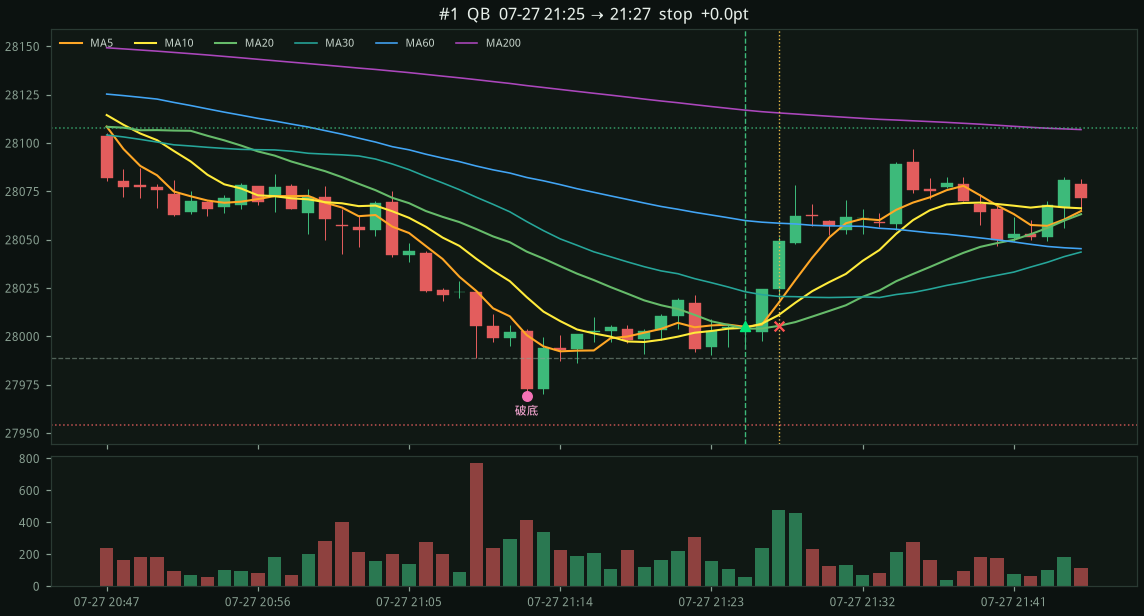
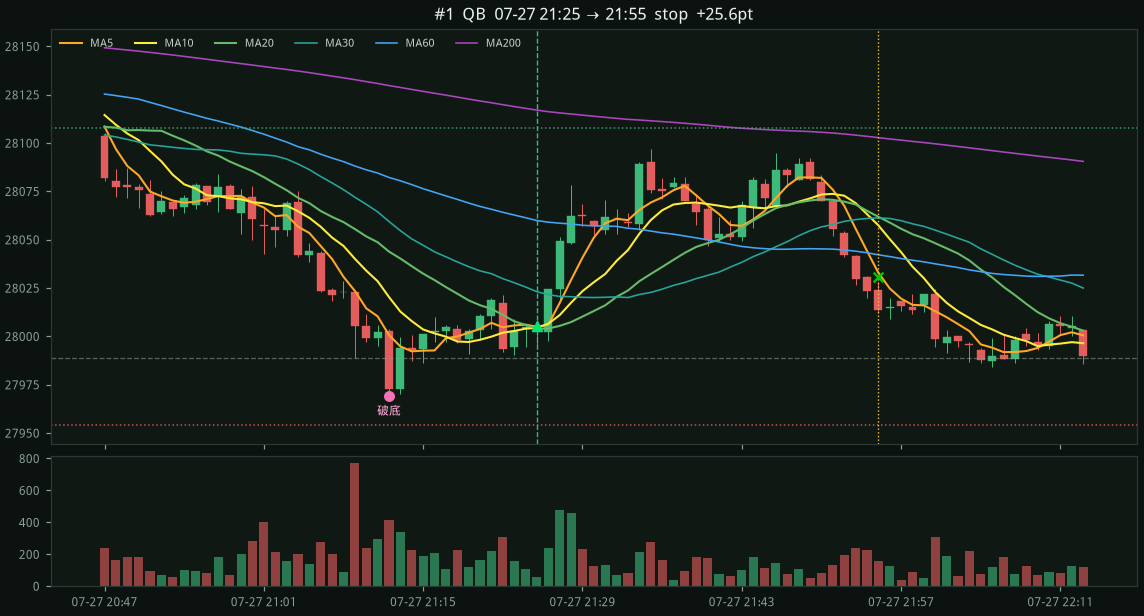
Refresh the MA20 gallery: 07-27 21:25 now trails +25.6.
After ignoring the entry 5m close, that first trade holds to 21:55
instead of scratching. 9 trades, 77.8%, +719.

diff --git a/docs/nq-ma-reclaim-ma20/view.html b/docs/nq-ma-reclaim-ma20/view.html
@@ -33,22 +33,22 @@ h1{font-size:18px;margin:0 0 6px}
 <div class="page">
 <section class="summary">
 <h1>NQ=F 破底翻 MA Reclaim</h1>
-<p class="muted">30d · 只要收復 MA20 · 2026-07-24 13:28 → 2026-08-21 16:59 ET · bars=27566</p>
-<p class="muted">收復只要站上 MA20。MA20 斜率改看近 3 根、門檻 −8（07-27 21:25 為 −7.1）。hug 也看近 3 根，只擋走平／微升（仍擋 08-11 12:39）。</p>
+<p class="muted">30d · 只要收復 MA20 · 2026-07-24 13:38 → 2026-08-21 16:59 ET · bars=27556</p>
+<p class="muted">收復只要站上 MA20。MA20 斜率改看近 3 根、門檻 −8（07-27 21:25 為 −7.1）。hug 也看近 3 根，只擋走平／微升（仍擋 08-11 12:39）。5 分停損只用進場之後才收完的 K；進場當根 5 分收盤不能立刻打保本。</p>
 <div class="cards">
 <div class="card">筆數<b>9</b></div>
-<div class="card">勝率<b>66.7%</b></div>
-<div class="card">總點數<b class="pnl-win">+693.3</b></div>
-<div class="card">勝/負<b>6/3</b></div>
+<div class="card">勝率<b>77.8%</b></div>
+<div class="card">總點數<b class="pnl-win">+718.9</b></div>
+<div class="card">勝/負<b>7/2</b></div>
 </div>
-<p class="muted">QA 4筆 +476.8 · QB 5筆 +216.5</p>
+<p class="muted">QA 4筆 +476.8 · QB 5筆 +242.1</p>
 <p class='muted'>漏斗：破底 1166 → 深度夠 287 → 收復+排列 255 → 進場 9（hug 30 · MA60 29 · 9點檔 53 · 量能 3 · 風險 89 · 寬停損 0）</p>
-<div class="equity"><svg viewBox="0 0 720 180" width="100%" style="background:#0f172a;border-radius:8px"><line x1="0" y1="162.6" x2="720" y2="162.6" stroke="#334155" stroke-dasharray="4 4"/><polyline fill="none" stroke="#16a34a" stroke-width="2" points="0.0,162.6 80.0,162.6 160.0,100.6 240.0,77.3 320.0,68.9 400.0,76.9 480.0,59.8 560.0,46.8 640.0,48.0 720.0,17.4"/></svg></div>
+<div class="equity"><svg viewBox="0 0 720 180" width="100%" style="background:#0f172a;border-radius:8px"><line x1="0" y1="162.6" x2="720" y2="162.6" stroke="#334155" stroke-dasharray="4 4"/><polyline fill="none" stroke="#16a34a" stroke-width="2" points="0.0,162.6 80.0,157.4 160.0,97.6 240.0,75.1 320.0,67.0 400.0,74.8 480.0,58.3 560.0,45.8 640.0,46.9 720.0,17.4"/></svg></div>
 </section>
-<article class='trade-card'><header class='card-header'><div class='card-title'><span class='trade-no'>#1 · QB</span><span class='trade-time'>2026-07-27 21:25 → 07-27 21:27</span></div><div class='card-pnl pnl-flat'>+0.0 pts</div></header><div class='tags'><span class='tag tag-sl'>stop</span><span class='tag tag-info'>1m</span><span class='tag tag-info'>QB</span></div><pre class='trade-detail'>entry 28005.25
+<article class='trade-card'><header class='card-header'><div class='card-title'><span class='trade-no'>#1 · QB</span><span class='trade-time'>2026-07-27 21:25 → 07-27 21:55</span></div><div class='card-pnl pnl-win'>+25.6 pts</div></header><div class='tags'><span class='tag tag-sl'>stop</span><span class='tag tag-info'>1m</span><span class='tag tag-info'>QB</span></div><pre class='trade-detail'>entry 28005.25
 stop  27954.00  (−51.2 pts)
 target 28107.75  (2.0R)
-exit  28005.25  stop
+exit  28030.88  stop
 破底 27969.00 / 2h低 27988.75
 MA5 28005.0 / MA20 28004.0 / MA60 28059.9 / MA200 28117.0</pre><div class='mini-chart'><img src='https://raw.githubusercontent.com/yubogoodman-droid/NQ/cursor/nq-30d-ablation-2484/docs/nq-ma-reclaim-ma20/img/t01_0727_2125_qb.png' alt='#1 QB' style='width:100%;display:block;border-radius:10px'/></div></article><article class='trade-card'><header class='card-header'><div class='card-title'><span class='trade-no'>#2 · QA</span><span class='trade-time'>2026-07-28 19:15 → 07-28 20:01</span></div><div class='card-pnl pnl-win'>+296.2 pts</div></header><div class='tags'><span class='tag tag-tp'>target</span><span class='tag tag-info'>1m</span><span class='tag tag-info'>QA</span></div><pre class='trade-detail'>entry 27828.00
 stop  27729.25  (−98.8 pts)

diff --git a/docs/nq-ma-reclaim-ma20/index.html b/docs/nq-ma-reclaim-ma20/index.html
@@ -33,22 +33,22 @@ h1{font-size:18px;margin:0 0 6px}
 <div class="page">
 <section class="summary">
 <h1>NQ=F 破底翻 MA Reclaim</h1>
-<p class="muted">30d · 只要收復 MA20 · 2026-07-24 13:28 → 2026-08-21 16:59 ET · bars=27566</p>
-<p class="muted">收復只要站上 MA20。MA20 斜率改看近 3 根、門檻 −8（07-27 21:25 為 −7.1）。hug 也看近 3 根，只擋走平／微升（仍擋 08-11 12:39）。</p>
+<p class="muted">30d · 只要收復 MA20 · 2026-07-24 13:38 → 2026-08-21 16:59 ET · bars=27556</p>
+<p class="muted">收復只要站上 MA20。MA20 斜率改看近 3 根、門檻 −8（07-27 21:25 為 −7.1）。hug 也看近 3 根，只擋走平／微升（仍擋 08-11 12:39）。5 分停損只用進場之後才收完的 K；進場當根 5 分收盤不能立刻打保本。</p>
 <div class="cards">
 <div class="card">筆數<b>9</b></div>
-<div class="card">勝率<b>66.7%</b></div>
-<div class="card">總點數<b class="pnl-win">+693.3</b></div>
-<div class="card">勝/負<b>6/3</b></div>
+<div class="card">勝率<b>77.8%</b></div>
+<div class="card">總點數<b class="pnl-win">+718.9</b></div>
+<div class="card">勝/負<b>7/2</b></div>
 </div>
-<p class="muted">QA 4筆 +476.8 · QB 5筆 +216.5</p>
+<p class="muted">QA 4筆 +476.8 · QB 5筆 +242.1</p>
 <p class='muted'>漏斗：破底 1166 → 深度夠 287 → 收復+排列 255 → 進場 9（hug 30 · MA60 29 · 9點檔 53 · 量能 3 · 風險 89 · 寬停損 0）</p>
-<div class="equity"><svg viewBox="0 0 720 180" width="100%" style="background:#0f172a;border-radius:8px"><line x1="0" y1="162.6" x2="720" y2="162.6" stroke="#334155" stroke-dasharray="4 4"/><polyline fill="none" stroke="#16a34a" stroke-width="2" points="0.0,162.6 80.0,162.6 160.0,100.6 240.0,77.3 320.0,68.9 400.0,76.9 480.0,59.8 560.0,46.8 640.0,48.0 720.0,17.4"/></svg></div>
+<div class="equity"><svg viewBox="0 0 720 180" width="100%" style="background:#0f172a;border-radius:8px"><line x1="0" y1="162.6" x2="720" y2="162.6" stroke="#334155" stroke-dasharray="4 4"/><polyline fill="none" stroke="#16a34a" stroke-width="2" points="0.0,162.6 80.0,157.4 160.0,97.6 240.0,75.1 320.0,67.0 400.0,74.8 480.0,58.3 560.0,45.8 640.0,46.9 720.0,17.4"/></svg></div>
 </section>
-<article class='trade-card'><header class='card-header'><div class='card-title'><span class='trade-no'>#1 · QB</span><span class='trade-time'>2026-07-27 21:25 → 07-27 21:27</span></div><div class='card-pnl pnl-flat'>+0.0 pts</div></header><div class='tags'><span class='tag tag-sl'>stop</span><span class='tag tag-info'>1m</span><span class='tag tag-info'>QB</span></div><pre class='trade-detail'>entry 28005.25
+<article class='trade-card'><header class='card-header'><div class='card-title'><span class='trade-no'>#1 · QB</span><span class='trade-time'>2026-07-27 21:25 → 07-27 21:55</span></div><div class='card-pnl pnl-win'>+25.6 pts</div></header><div class='tags'><span class='tag tag-sl'>stop</span><span class='tag tag-info'>1m</span><span class='tag tag-info'>QB</span></div><pre class='trade-detail'>entry 28005.25
 stop  27954.00  (−51.2 pts)
 target 28107.75  (2.0R)
-exit  28005.25  stop
+exit  28030.88  stop
 破底 27969.00 / 2h低 27988.75
 MA5 28005.0 / MA20 28004.0 / MA60 28059.9 / MA200 28117.0</pre><div class='mini-chart'><img src='img/t01_0727_2125_qb.png' alt='#1 QB' style='width:100%;display:block;border-radius:10px'/></div></article><article class='trade-card'><header class='card-header'><div class='card-title'><span class='trade-no'>#2 · QA</span><span class='trade-time'>2026-07-28 19:15 → 07-28 20:01</span></div><div class='card-pnl pnl-win'>+296.2 pts</div></header><div class='tags'><span class='tag tag-tp'>target</span><span class='tag tag-info'>1m</span><span class='tag tag-info'>QA</span></div><pre class='trade-detail'>entry 27828.00
 stop  27729.25  (−98.8 pts)

diff --git a/README.md b/README.md
@@ -25,7 +25,7 @@
 ## NQ 一分 K 破底翻 MA Reclaim
 
 1 分鐘圖：跌破近 2 小時低點後，15 根內收復 MA20/MA30，且 MA5>MA10>MA20，做多 NQ。  
-停損在破底低點下方；目標 2R（MA20 上彎時 3R）。品質看 1m MA5 / 1m MA60 / 5m MA60 斜率。
+停損在破底低點下方 15 點，用進場之後才收完的 5 分收盤觸發（0.7R 後保本）；目標 2R（MA20 上彎時 3R）。品質看 1m MA5 / 1m MA60 / 5m MA60 斜率。
 
 ```bash
 # 近 8 天 / 近一個月回測 + 手機版 HTML（每筆一張圖）
@@ -52,7 +52,9 @@ python3 examples/nq_ma_reclaim.py backtest --period 30d --allow-open-hour --page
 
 拆解頁：https://htmlpreview.github.io/?https://raw.githubusercontent.com/yubogoodman-droid/NQ/cursor/nq-30d-ablation-2484/docs/nq-ma-reclaim/research-view.html  
 允許 09–10 的 9 筆圖：https://htmlpreview.github.io/?https://raw.githubusercontent.com/yubogoodman-droid/NQ/cursor/nq-30d-ablation-2484/docs/nq-ma-reclaim-0910/view.html  
-只要收復 MA20：斜率改看近 3 根（門檻 −8）。07-27 21:25 會進（打平）；08-11 12:39 近 3 根已翻正，仍被 hug 擋。  
+只要收復 MA20：斜率改看近 3 根（門檻 −8）。07-27 21:25 會進。  
+5 分停損只用進場之後才收完的 K（不再用進場當根立刻打保本）。21:25 改成 21:55 移動停損 **+25.6**。08-11 12:39 仍被 hug 擋。  
+整組 **9 筆、勝率 77.8%、+719**。  
 https://htmlpreview.github.io/?https://raw.githubusercontent.com/yubogoodman-droid/NQ/cursor/nq-30d-ablation-2484/docs/nq-ma-reclaim-ma20/view.html
 
 外網（合併後）：https://yubogoodman-droid.github.io/NQ/nq-ma-reclaim/  
